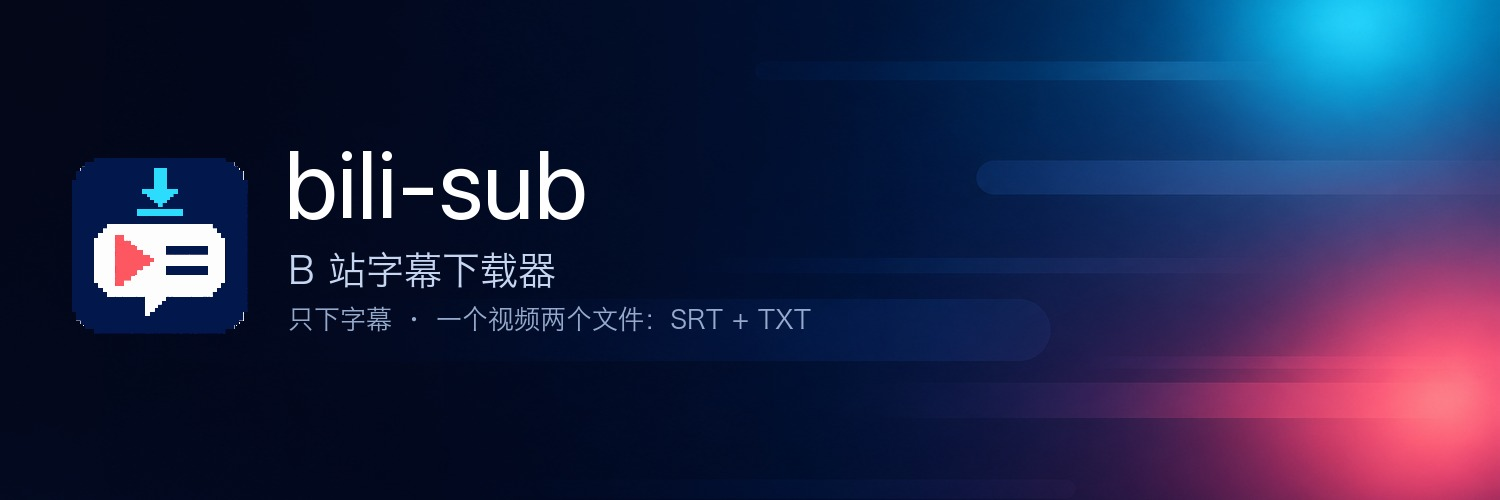
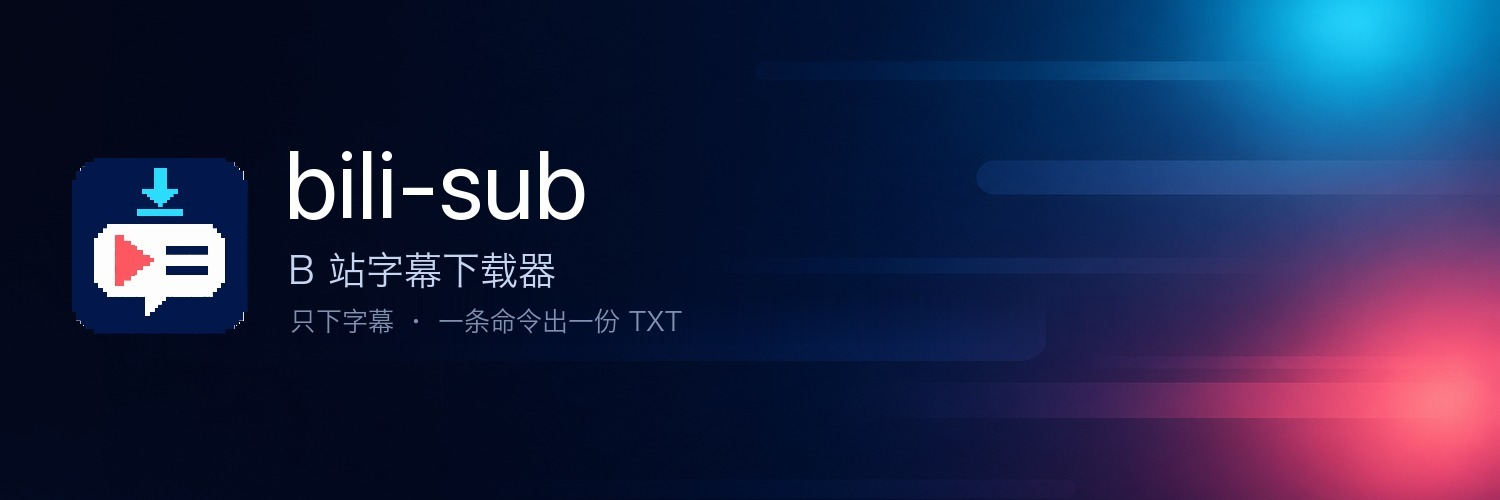
docs: 口径统一成「一个视频一个 txt」
- README 改成只出 txt、按 UP 主分目录、文件名取标题前 10 字
- 目录树重排，不再有视频文件夹这一层
- 演示图重画：只剩一条 txt 输出
- 横幅副标题改成「一条命令出一份 TXT」
- 补上防风控说明：请求间隔 0.4 秒、批量 1 秒随机抖动、风控退避

Changed region(s): [[0.184, 0.6, 0.552, 0.66]]

diff --git a/README.md b/README.md
@@ -8,16 +8,16 @@
   <img alt="Platform" src="https://img.shields.io/badge/platform-macOS%20%7C%20Linux-lightgrey?style=flat-square">
 </p>
 
-把 B 站视频的字幕下载到本地。一个视频给两个文件：`.srt` 丢给播放器和剪辑软件，`.txt` 给人读、给 AI 读。
+把 B 站视频的字幕下载到本地。一个视频给一个 `.txt`：开头是 UP 主、链接、时长、字幕类型，正文按停顿分好段，自己读或者直接喂给 AI 都行。
 
 零依赖，一个文件，装完就能用。只支持 macOS 和 Linux。
 
 ## 它替你做的几件事
 
-- **按 UP 主和视频自动分文件夹。** `UP主/视频标题/` 两层，一个视频一个文件夹，同一个 UP 主下的多个视频不会混在一起。
+- **按 UP 主自动分文件夹。** 字幕直接躺在 `UP主/` 目录里，文件名就是视频标题，下完不用自己整理。
 - **批量。** 一个链接、十个链接、一个 `.txt` 清单、清单和链接混着写，都是一条命令。
 - **下过的自动跳过。** 同一个视频再跑一次直接跳过，不重复请求；真要重下加 `--force`。
-- **两个文件一起给。** `.srt` 带时间轴；`.txt` 开头就是 UP 主、链接、发布时间、时长、字幕类型，正文按停顿分好了段——喂给 AI 不用再手动清时间轴。
+- **只给一个 txt。** 开头就是 UP 主、链接、发布时间、时长、字幕类型，正文按停顿分好了段——喂给 AI 不用再手动清时间轴。
 - **字幕只要一版，但要最合适的那版。** 中文原字幕 > 中文 AI 字幕 > 其他语言原字幕 > 其他语言 AI 字幕。
 - **下不全就不写文件。** 一条字幕都没有、或者只到视频一半，直接报错，不给你一个"看起来成功"的残片。
 - **一条 `status` 说清所有事。** 登录状态、版本号、装在哪、存哪、卸载要删哪几个文件，都在这。
@@ -42,14 +42,13 @@ bili 清单.txt BV1yyyyyyyyy                          # 混着来
 下完的目录长这样：
 
 ```
-~/Desktop/B站字幕/                 ← 默认总目录，可以改
-└── 某个UP主/                     ← 不用你建，按视频所属的 UP 主自动分
-    └── 视频标题/                 ← 一个视频一个文件夹，多个视频不会混
-        ├── 视频标题.ai-zh.srt     ← 播放器、剪辑软件直接用
-        └── 视频标题.ai-zh.txt     ← 读起来顺，也能直接喂 AI
+~/Desktop/B站字幕/        ← 默认总目录，可以改
+└── 某个UP主/             ← 不用你建，按视频所属的 UP 主自动分
+    ├── 视频标题.txt      ← 读起来顺，也能直接喂 AI
+    └── 另一个视频.txt    ← 一个视频一个文件，不会混
 ```
 
-文件夹名就是视频标题，两个文件也用同一个标题命名；标题超长时统一截到 60 个字。分P视频的所有分P都放在同一个文件夹里，文件名带 `.p01`、`.p02`。以前版本下的一层结构不会被搬动，重新下载时会按新结构放。
+文件名取标题的前 10 个字，超出的用省略号，所以一行能放下；分P视频在名字后面带 `.p01`、`.p02`。以前版本下好的 `.srt` 和子文件夹不会被搬动，重新下载会按现在的结构放。
 
 `.txt` 开头是这样：
 
@@ -78,7 +77,7 @@ bili 清单.txt BV1yyyyyyyyy                          # 混着来
 | `bili -p <N> <链接>` | 只下第 N 个分P，不写就下全部 |
 | `bili -o <目录> <链接>` | 这次换个地方存，不改永久设置 |
 | `bili --force <链接>` | 已下过的也重新下 |
-| `bili --delay <秒>` | 批量时两个视频之间等几秒，默认 0.4 |
+| `bili --delay <秒>` | 批量时两个视频之间等几秒，默认 1.0（还会再加随机间隔） |
 | `bili setout "<绝对路径>"` | 永久改输出目录，要绝对路径、加双引号 |
 | `bili status` | 登录状态、版本号、装在哪、存哪、怎么卸载 |
 | `bili setcookie` | 设置或更新登录 cookie |
@@ -184,7 +183,7 @@ rm "$HOME/.local/bin/bili"         # 程序本体，就一个文件
 B 站的风控挡住了。先确认登录状态，隔一会儿再试；一直这样说明 B 站改了接口，等版本更新。
 
 **一次下几百个会不会被挡？**
-默认每个视频之间会停 0.4 秒。数量太大建议分几批，被挡了就隔十几分钟再来。
+默认两个视频之间停 1 秒左右，而且每次都会抖一点；一个视频内部的几次请求也隔了 0.4 秒以上。真被风控挡住了会自动等 20 秒再试，还不行就提示你歇一会儿。数量太大还是建议分几批。
 
 **能下视频、音频、弹幕吗？**
 不能，这个工具只做字幕。
